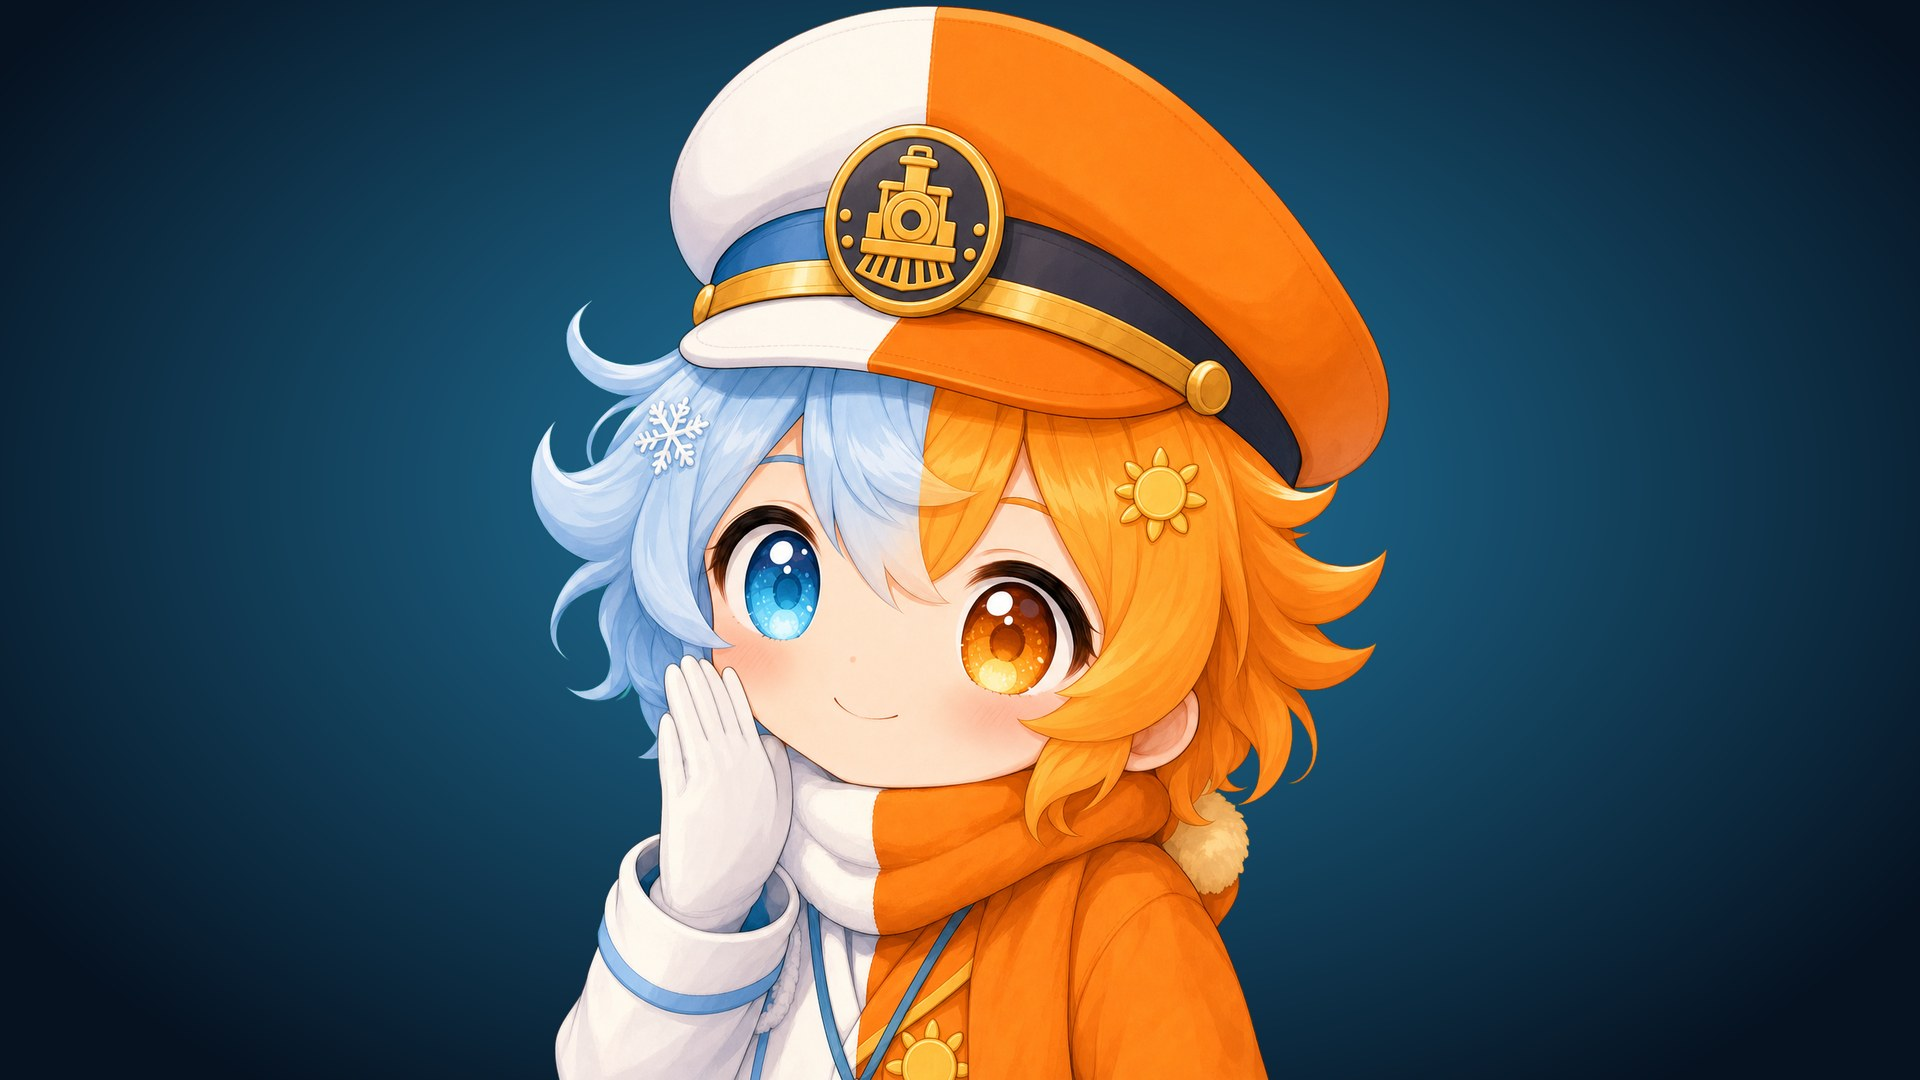
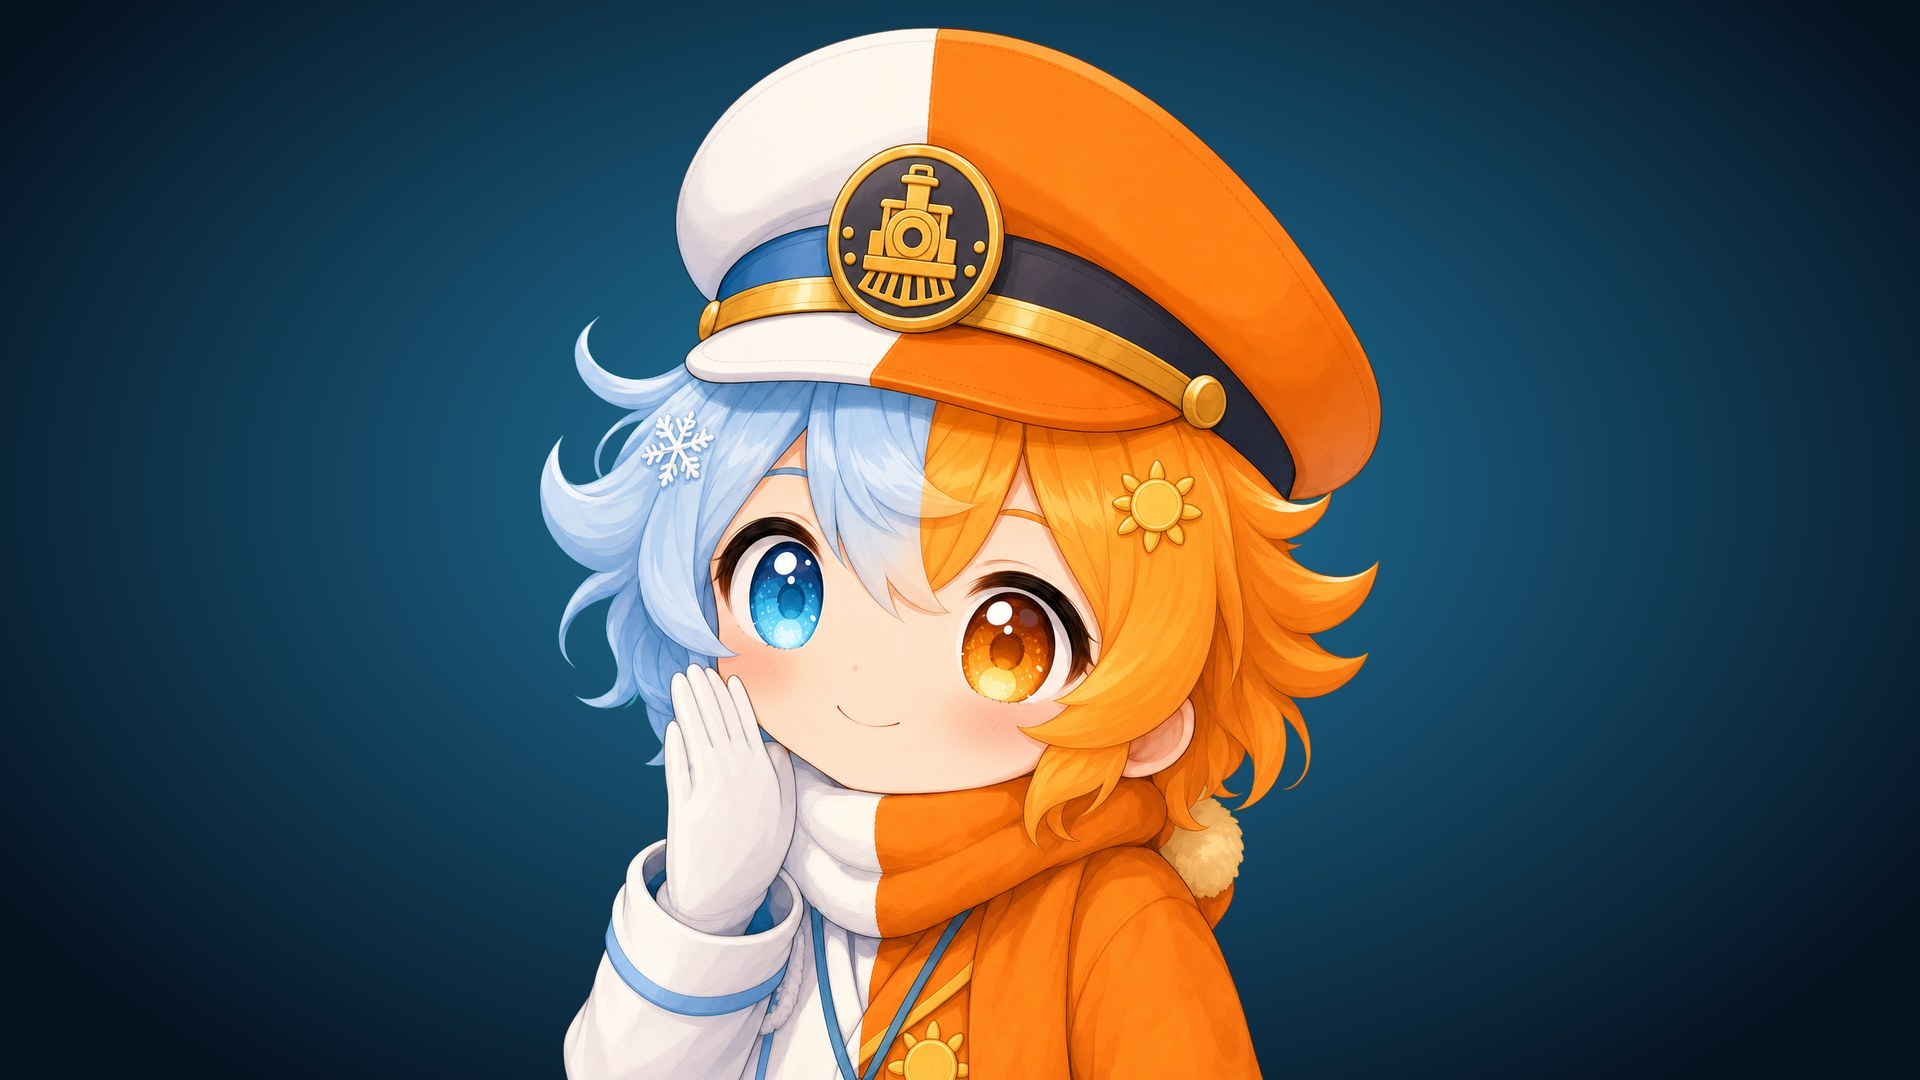
Demo04: conductor full-body and ear views keep a margin from the frame edges (check_art full-edge), placement only (stage.json, rebuilt layers + flat stills)

diff --git a/demos/all-ages/Demo04_SeasonsExpress/index.html b/demos/all-ages/Demo04_SeasonsExpress/index.html
@@ -95,7 +95,7 @@
   <script src="media/data.js?v=9a30b1aa"></script>
   <script src="media/car_geo.js?v=40cd0747"></script>
   <script src="media/voice.js?v=ffc0d7b7"></script>
-  <script src="media/layers.js?v=6ad7575d"></script>
+  <script src="media/layers.js?v=f582c1ea"></script>
   <script src="../../../device.js?v=c3d93e5c"></script>
   <script src="../../shared/shell.js?v=092d985d"></script>
   <script src="main.js?v=0540f2ff"></script>

diff --git a/demos/all-ages/Demo04_SeasonsExpress/media/layers.js b/demos/all-ages/Demo04_SeasonsExpress/media/layers.js
@@ -16,8 +16,8 @@ window.MOHEAT_LAYERS = {
     "w": 882,
     "h": 1389,
     "x": 0.5,
-    "y": 1.0,
-    "height": 1.0,
+    "y": 0.98,
+    "height": 0.96,
     "box": [
      274,
      51,
@@ -179,7 +179,7 @@ window.MOHEAT_LAYERS = {
     "h": 1395,
     "x": 0.5,
     "y": 1.0,
-    "height": 1.0,
+    "height": 0.98,
     "box": [
      166,
      45,
